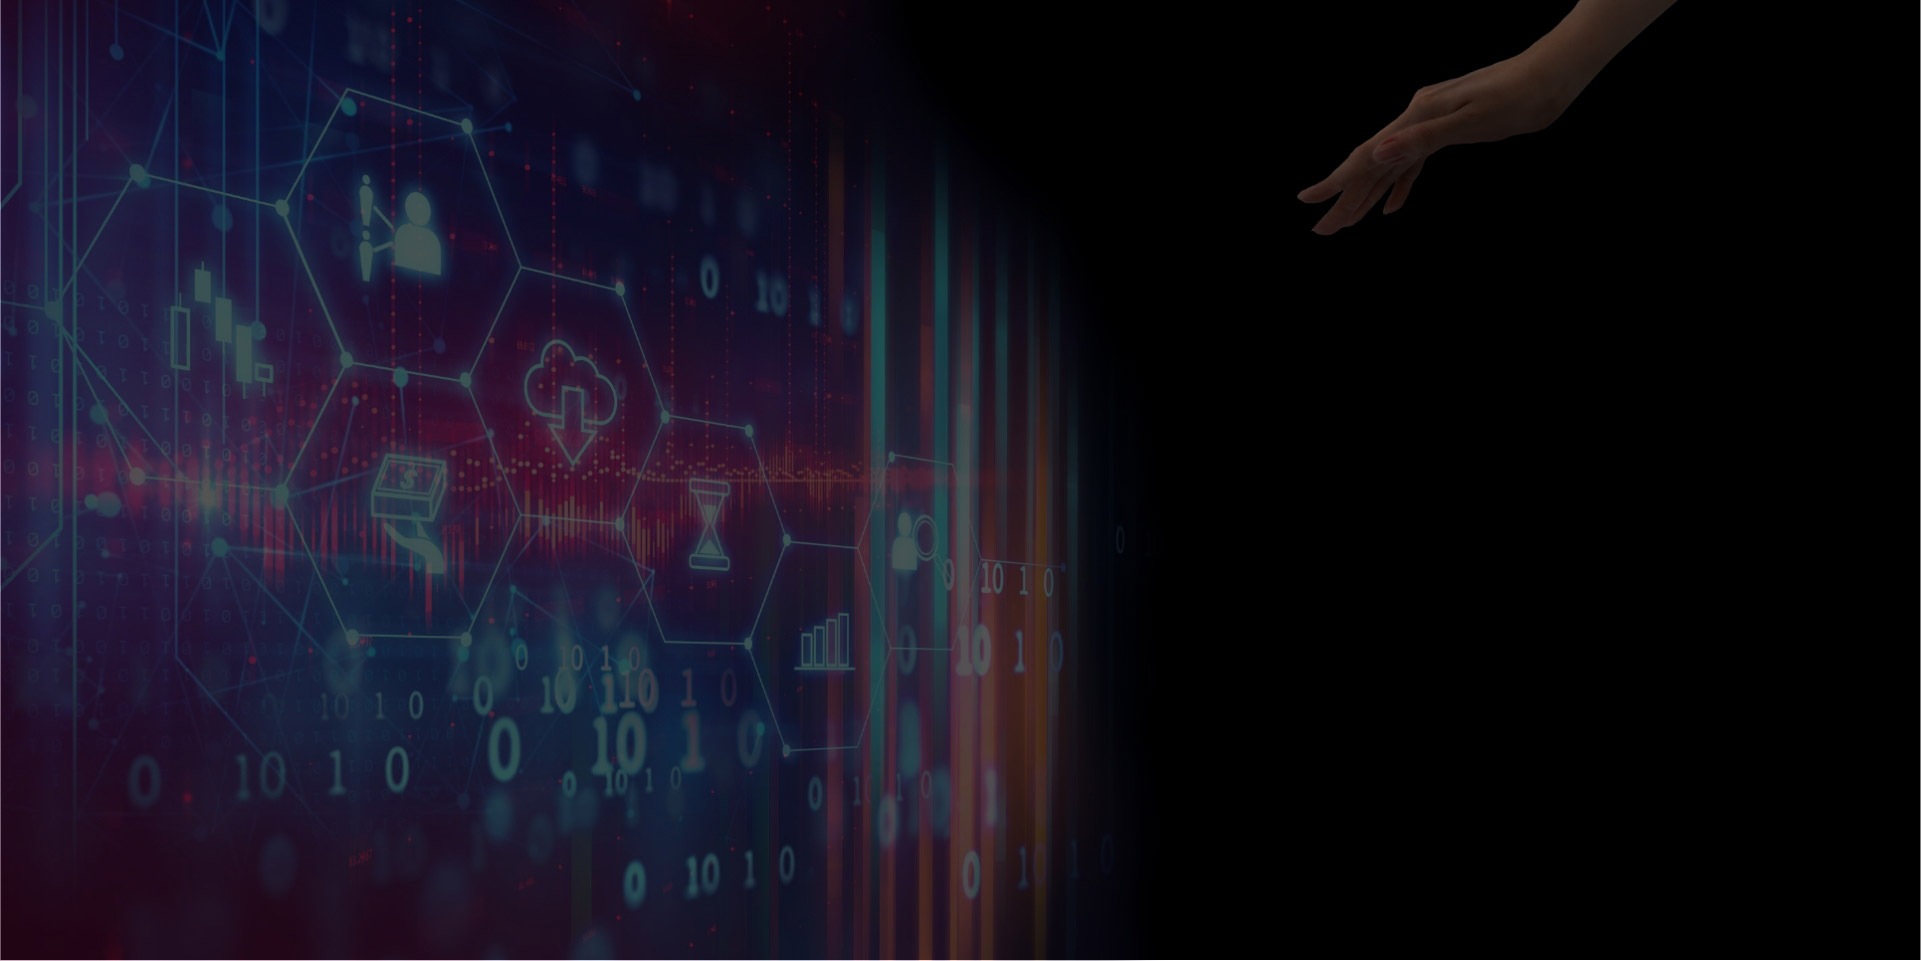
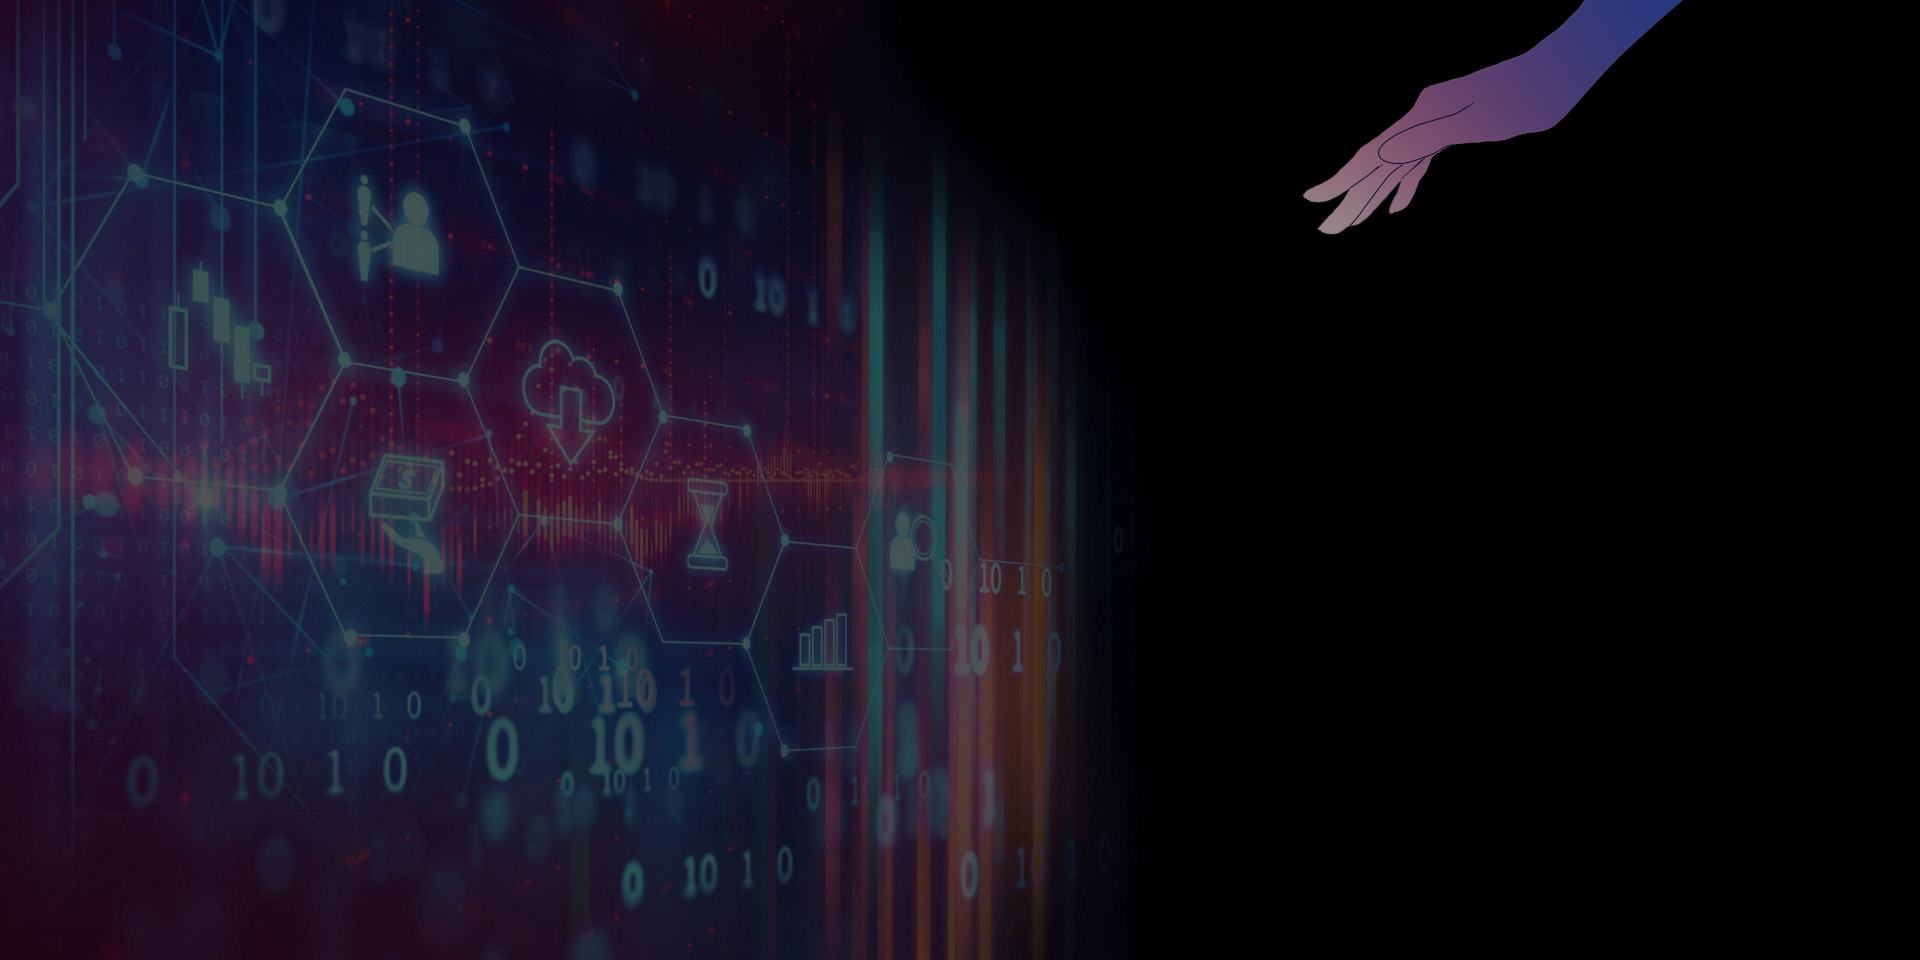
设计调整

diff --git a/src/components/en/Roadmap.vue b/src/components/en/Roadmap.vue
@@ -69,8 +69,8 @@
                     <div class="item roadmap-down current">
                         <span class="quarter">Q3 2018</span>
                         <el-popover
-                                popper-class="roadmap-popper"
-                                placement="right"
+                                popper-class="roadmap-popper-up"
+                                placement="top"
                                 width="300"
                                 trigger="hover"
                         >
@@ -89,8 +89,8 @@
                     <div class="item roadmap-up">
                         <span class="quarter">Q4 2018</span>
                         <el-popover
-                                popper-class="roadmap-popper"
-                                placement="right"
+                                popper-class="roadmap-popper-down"
+                                placement="bottom"
                                 width="400"
                                 trigger="hover"
                         >
@@ -101,7 +101,7 @@
                                 <p>4.Expand development and operations team</p>
                                 <p>5.Hire external consultants (security team, marketing team)</p>
                             </div>
-                            <div class="item-name" slot="reference">
+                            <div class="item-name text-right" slot="reference">
                                 <b>Private placement & Operation</b>
                             </div>
                         </el-popover>
@@ -109,8 +109,8 @@
                     <div class="item roadmap-down">
                         <span class="quarter">Q1 2019</span>
                         <el-popover
-                                popper-class="roadmap-popper"
-                                placement="right"
+                                popper-class="roadmap-popper-up"
+                                placement="top"
                                 width="450"
                                 trigger="hover"
                         >
@@ -128,8 +128,8 @@
                     <div class="item roadmap-up">
                         <span class="quarter">Q2 2019</span>
                         <el-popover
-                                popper-class="roadmap-popper"
-                                placement="right"
+                                popper-class="roadmap-popper-down"
+                                placement="bottom"
                                 width="450"
                                 trigger="hover"
                         >
@@ -139,7 +139,7 @@
                                 <p>3.Recruitment block production team</p>
                                 <p>4.Graphical smart contract generation tool MVP test</p>
                             </div>
-                            <div class="item-name" slot="reference">
+                            <div class="item-name text-right" slot="reference">
                                 <b>Developer forum & Product test</b>
                             </div>
                         </el-popover>
@@ -166,9 +166,9 @@
                     <div class="item roadmap-up">
                         <span class="quarter">Q4 2019</span>
                         <el-popover
-                                popper-class="roadmap-popper"
-                                placement="left"
-                                width="350"
+                                popper-class="roadmap-popper-down"
+                                placement="bottom"
+                                width="330"
                                 trigger="hover"
                         >
                             <div class="item-content">
@@ -176,7 +176,7 @@
                                 <p>2.ICO issuance pass is mapped to the main chain</p>
                                 <p>3.To be announced</p>
                             </div>
-                            <div class="item-name" slot="reference">
+                            <div class="item-name text-right" slot="reference">
                                 <b>Main network mapping</b>
                             </div>
                         </el-popover>

diff --git a/src/assets/less/style.less b/src/assets/less/style.less
@@ -144,8 +144,9 @@ html, body {
   transition: all .3s ease;
   &.fixed{
     padding-top: 0px;
-    background: url("../../assets/images/header-bg.png")0 0 no-repeat;
-    background-size: 100% 100%;
+    //background: url("../../assets/images/header-bg.png")0 0 no-repeat;
+    //background-size: 100% 100%;
+    background: linear-gradient(45deg,rgba(226,104,154,.9),rgba(64,91,211,.9));
     .logo{
       img{
         margin-top: 10px;
@@ -166,6 +167,9 @@ html, body {
         }
       }
     }
+    .lang-list{
+      background: #bbb;
+    }
   }
   .logo {
     text-align: left;
@@ -177,6 +181,7 @@ html, body {
   padding: 0;
   text-align: right;
   overflow: hidden;
+  margin-right: 150px;
   ul {
     float: right;
     margin-right: 0px;
@@ -343,16 +348,6 @@ html, body {
         }
       }
     }
-    .hand {
-      position: absolute;
-      right: 50%;
-      top: -115px;
-      margin-right: -890px;
-      z-index: 1001;
-      width: 559px;
-      height: 315px;
-      background: url("../images/hand.png") 0 0 no-repeat;
-    }
     h1 {
       margin-top: 120px;
       position: relative;
@@ -439,11 +434,12 @@ html, body {
   }
   .cube-swap {
     position: absolute;
-    top: -170px;
+    top: -168px;
     width: 779px;
     height: 532px;
     border-radius: 8px;
     background: #fff;
+    box-shadow: 0 0 70px rgba(29,17,86,.2);
     .swap-head {
       border-bottom: 1px solid #DEECFF;
       height: 168px;
@@ -485,7 +481,7 @@ html, body {
         width: 315px;
         border: 0;
         font-weight: 100;
-        padding-top: 40px;
+        padding-top: 50px;
         font-size: 62px;
         color: @ccBlue;
       }
@@ -900,17 +896,27 @@ html, body {
   }
 }
 
-.roadmap-popper{
+.roadmap-popper-up{
   border: none!important;
   background: #794EB6!important;
   color: #fff!important;
   line-height: 14px!important;
   .popper__arrow{
-    border-right-color: #794EB6!important;
-    border-left-color: #794EB6!important;
+    border-top-color: #794EB6!important;
     &:after{
-      border-right-color: #794EB6!important;
-      border-left-color: #794EB6!important;
+      border-top-color: #794EB6!important;
+    }
+  }
+}
+.roadmap-popper-down{
+  border: none!important;
+  background: #794EB6!important;
+  color: #fff!important;
+  line-height: 14px!important;
+  .popper__arrow{
+    border-bottom-color: #794EB6!important;
+    &:after{
+      border-bottom-color: #794EB6!important;
     }
   }
 }
@@ -986,7 +992,7 @@ html, body {
         background: url("../images/roadmap-up.png") 0 0 no-repeat;
         .item-name {
           bottom: 60px;
-          right: 30px;
+          right: 60px;
         }
         .quarter {
           top: -30px;

diff --git a/src/components/en/Lang.vue b/src/components/en/Lang.vue
@@ -5,7 +5,7 @@
         </div>
         <div class="lang-list" v-if="show">
             <div class="item" v-for="(item,index) in langs" :data-index="index" @click="switchLang(index,item)">
-                <i :class="item.class"></i><span>{{item.lang}}</span>
+                <i :class="item.lang"></i><span>{{item.lang}}</span>
             </div>
         </div>
     </div>
@@ -30,14 +30,21 @@
         },
         methods:{
             showList(){
-                this.show = true;
+                if(!this.show){
+                    this.show = true;
+                }else {
+
+                    this.show = false;
+                }
             },
             switchLang(index,obj){
-                let oldLang = JSON.parse(JSON.stringify(this.defatult));
-                this.defatult = obj;
-                this.langs.splice(index,oldLang);
-                console.info(index,oldLang,JSON.stringify(this.langs))
-                this.show = false;
+                //this.langs = this.defatult
+                console.info(JSON.stringify(this.langs))
+                // let oldLang = JSON.parse(JSON.stringify(this.defatult));
+                // this.defatult = obj;
+                // this.langs.splice(index,oldLang);
+                // console.info(index,oldLang,JSON.stringify(this.langs))
+                 this.show = false;
             }
         }
     }
@@ -45,7 +52,6 @@
 <style lang="less">
     @background:rgba(255,255,255,.6);
     #lang{
-        display: none;
         position:absolute;
         right: 0;
         top: 20px;
@@ -108,16 +114,16 @@
             color: #fff;
             font-size: 20px;
         }
-        .cn-icon{
+        .ZH{
             background-position: 0 0;
         }
-        .en-icon{
+        .EN{
             background-position: 0 -23px;
         }
-        .ko-icon{
+        .KO{
             background-position: 0 -69px;
         }
-        .jp-icon{
+        .JP{
             background-position: 0 -46px;
         }
     }

diff --git a/src/components/en/Banner.vue b/src/components/en/Banner.vue
@@ -82,20 +82,20 @@
                     if (!mailRegExp.test(value)) {
                         return callback(new Error('Please enter a valid email address.'));
                     } else {
-                        this.axios({
-                            method: "get",
-                            params: {
-                                email: value
-                            },
-                            url: "/api/user/checkEmail"
-                        }).then((res) => {
-                            let isExisted = res.data.existed;
-                            if (!isExisted) {
-                                this.isEmail = true;
-                            } else {
-                                callback(new Error('The email address is registered.'));
-                            }
-                        })
+                        // this.axios({
+                        //     method: "get",
+                        //     params: {
+                        //         email: value
+                        //     },
+                        //     url: "/api/user/checkEmail"
+                        // }).then((res) => {
+                        //     let isExisted = res.data.existed;
+                        //     if (!isExisted) {
+                        //         this.isEmail = true;
+                        //     } else {
+                        //         callback(new Error('The email address is registered.'));
+                        //     }
+                        // })
                     }
                 }
             };

diff --git a/src/components/en/Nav.vue b/src/components/en/Nav.vue
@@ -1,10 +1,10 @@
 <template>
-    <div id="mnav" @click="activeNav" ref="nav">
-        <ul>
+    <div id="mnav" ref="nav">
+        <ul @click="activeNav">
             <li class="active"><a href="#">ABOUT</a></li>
             <li class=""><a href="#solution">SOLUTION</a></li>
             <li class=""><a href="#faq">FAQ</a></li>
-            <li class=""><a href="http://www.cubedex.io/">BLOG</a></li>
+            <li class=""><a href="http://blog.cubecart.io/" target="_blank">BLOG</a></li>
             <li class=""><a href="#roadmap">ROADMAP</a></li>
             <li class=""><a href="#team">TEAM</a></li>
             <li class=""><a href="#demo">DEMO</a></li>
@@ -30,8 +30,9 @@
         },
         methods: {
             activeNav(e) {
-                let lis = e.currentTarget.childNodes[0].childNodes;
                 let li = e.target.parentElement;
+                // console.log(li.nodeName)
+                let lis = e.currentTarget.childNodes;
 
                 for (let i = 0; i < lis.length; i++) {
                     lis[i].className=''
